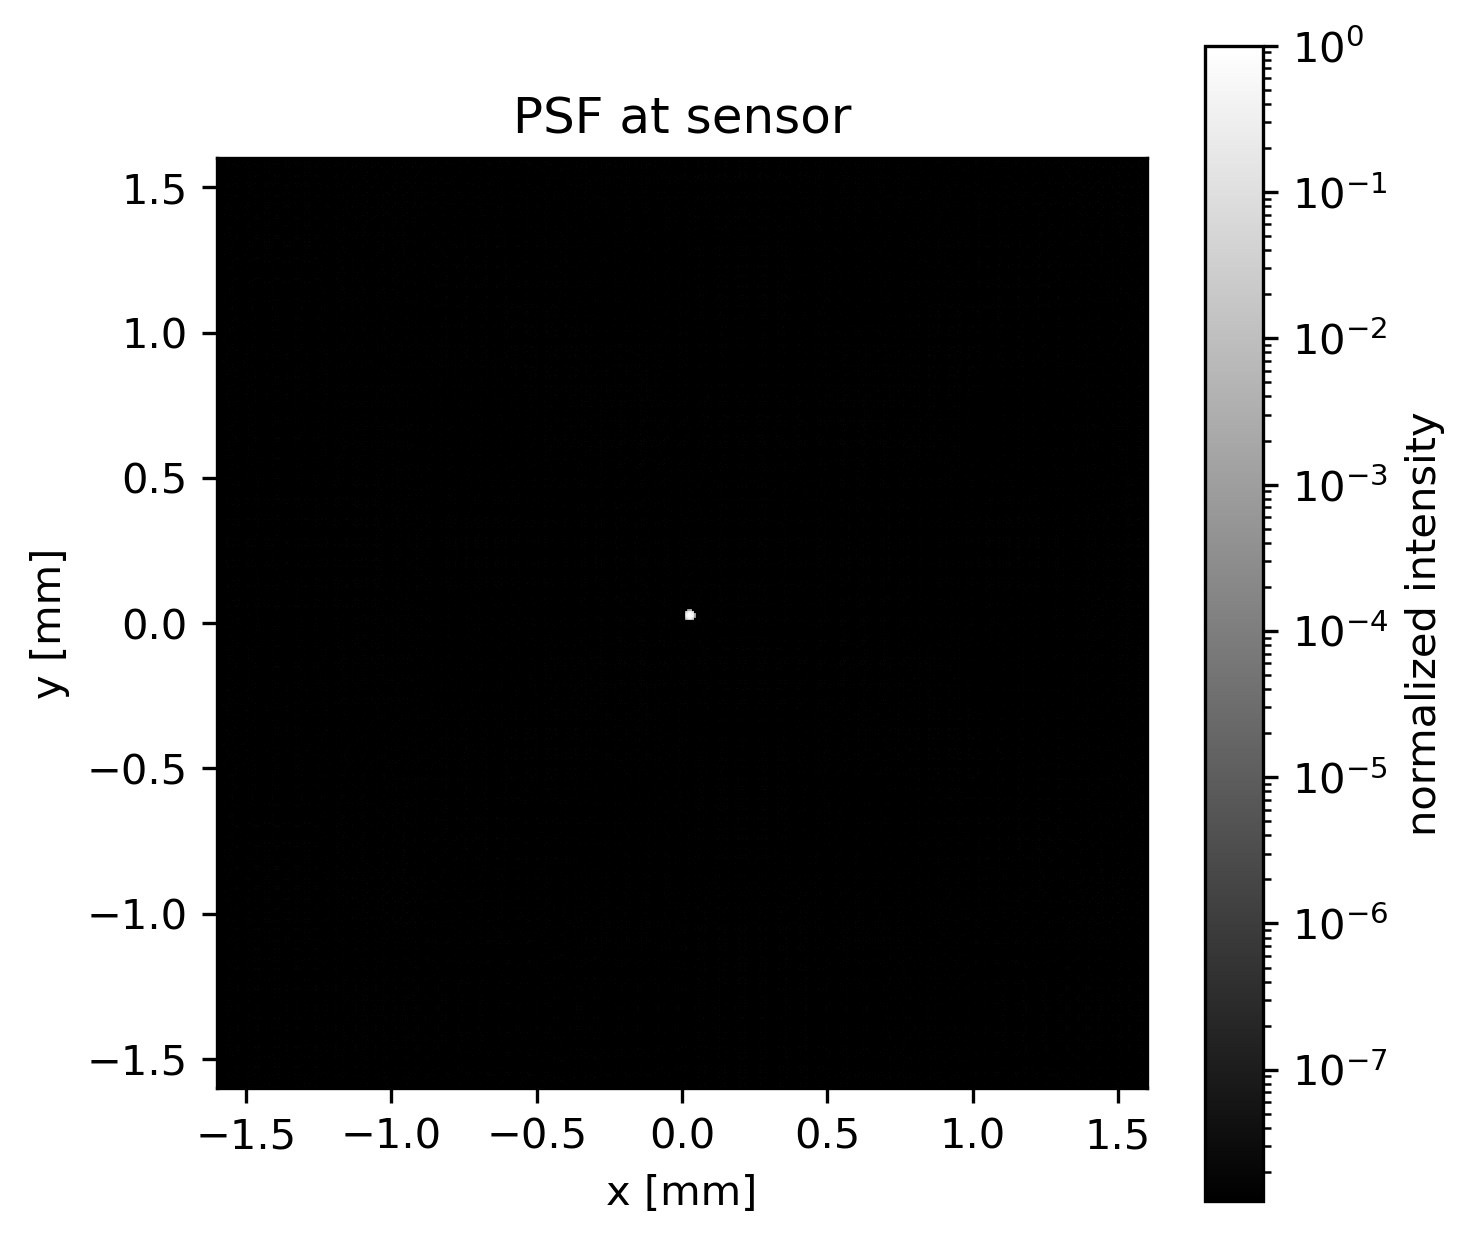
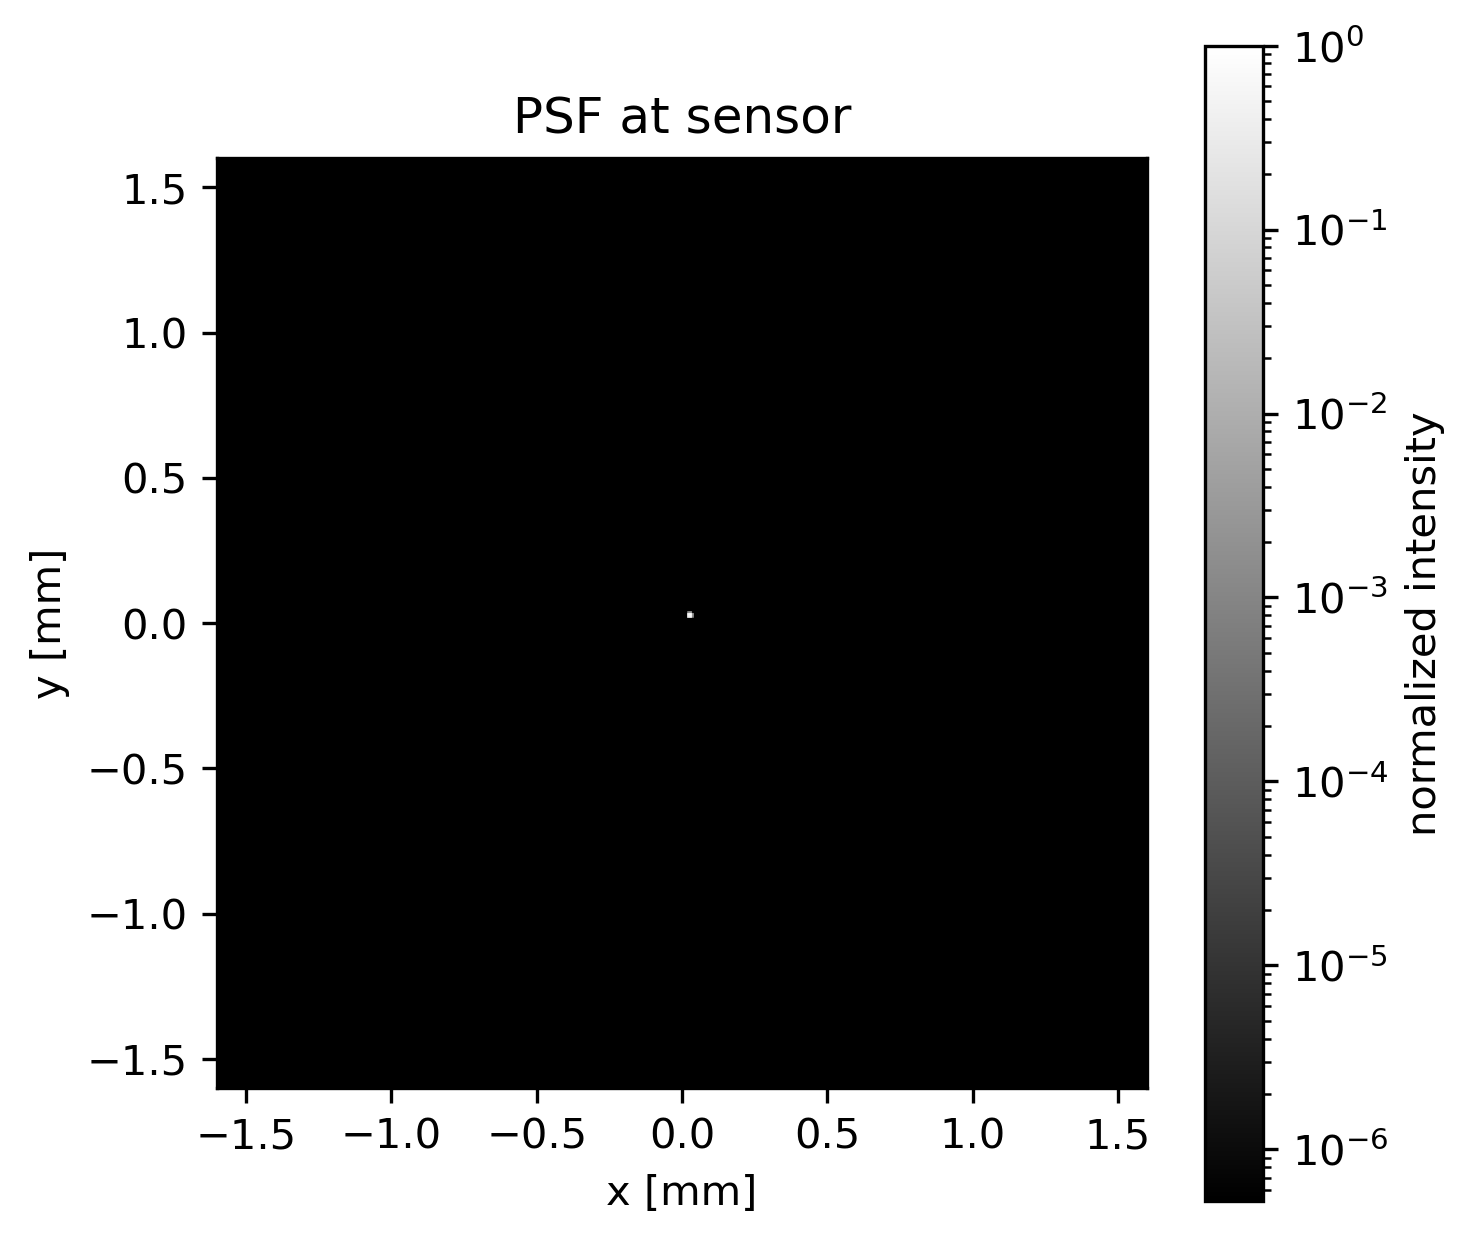
update best focus swap

diff --git a/test_ray_tracing.py b/test_ray_tracing.py
@@ -1,0 +1,135 @@
+import math
+import numpy as np
+import torch
+import pytest
+
+# Import classes from the project
+import os,sys
+sys.path.insert(0, os.path.abspath(os.path.join(os.path.dirname(__file__), '..')))
+import mlrt 
+from mlrt.optics import Lensgroup, Aspheric, Surface
+from mlrt.materials import Material
+from mlrt.basics import Ray
+
+torch.manual_seed(0)
+np.random.seed(0)
+
+DEVICE = torch.device("cpu")
+
+def _make_ray(o, d, wav=550.0):
+    """Helper: build a normalized Ray on DEVICE."""
+    if not torch.is_tensor(o): o = torch.tensor(o, dtype=torch.float32)
+    if not torch.is_tensor(d): d = torch.tensor(d, dtype=torch.float32)
+    o = o.reshape(-1, 3).to(DEVICE)
+    d = d.reshape(-1, 3).to(DEVICE)
+    d = d / torch.linalg.norm(d, dim=-1, keepdim=True)
+    wav = torch.full((o.shape[0],), float(wav), dtype=torch.float32, device=DEVICE)
+    return Ray(o, d, wav, device=DEVICE)
+
+# ---------- 1) Intersection: plane z = d ----------
+def test_intersect_plane_z_equals_d():
+    s = Aspheric(r=50.0, d=12.3, c=0.0, device=DEVICE)  # plane z = d
+    ray = _make_ray([0.0, 0.0, 0.0], [0.0, 0.0, 1.0])
+    valid, p = s.ray_surface_intersection(ray)
+    assert valid.item()
+    assert torch.allclose(p[0, 2], torch.tensor(12.3, device=DEVICE), atol=1e-6)
+
+# ---------- 2) Intersection: spherical surface (off-axis) ----------
+def test_intersect_sphere_off_axis_sag_matches():
+    R = 50.0  # mm
+    s = Aspheric(r=30.0, d=10.0, c=1.0/R, device=DEVICE)
+    x = 5.0  # off-axis hit
+    ray = _make_ray([x, 0.0, -100.0], [0.0, 0.0, 1.0])
+    valid, p = s.ray_surface_intersection(ray)
+    assert valid.item()
+    # expected z = d + sag(x)
+    r2 = torch.tensor(x**2, dtype=torch.float32, device=DEVICE)
+    sag = s._g(r2).item()
+    z_expect = 10.0 + sag
+    assert abs(p[0, 2].item() - z_expect) < 1e-4
+
+# ---------- 3) Snell's law (vector form): sin θ_t = η sin θ_i ----------
+def test_snell_vector_form():
+    lens = Lensgroup(device=DEVICE)
+    wi_theta = math.radians(30.0)
+    wi = torch.tensor([[math.sin(wi_theta), 0.0, math.cos(wi_theta)]], dtype=torch.float32, device=DEVICE)
+    n  = torch.tensor([[0.0, 0.0, 1.0]], dtype=torch.float32, device=DEVICE)
+    eta = 1.0 / 1.5  # air -> glass
+    valid, wt = lens._refract(wi, n, eta)
+    assert valid.item()
+    # Use |wi × n| and |wt × n| to get sin θ (robust to sign)
+    sin_i = torch.linalg.norm(torch.cross(wi, n), dim=-1).item()
+    sin_t = torch.linalg.norm(torch.cross(wt, n), dim=-1).item()
+    assert abs(sin_t - eta * sin_i) < 1e-5
+
+# ---------- 4) Total internal reflection flag ----------
+def test_total_internal_reflection_flag():
+    lens = Lensgroup(device=DEVICE)
+    eta = 1.5  # glass -> air (n1/n2)
+    # incidence > critical angle ≈ arcsin(1/eta)
+    th = math.radians(50.0)
+    wi = torch.tensor([[math.sin(th), 0.0, math.cos(th)]], dtype=torch.float32, device=DEVICE)
+    n  = torch.tensor([[0.0, 0.0, -1.0]], dtype=torch.float32, device=DEVICE)
+    valid, _ = lens._refract(wi, n, eta)
+    assert not valid.item()  # expect TIR
+
+# ---------- 5) Render energy conservation (air-air plate + sensor) ----------
+def test_render_energy_conservation_air_plate():
+    # Camera with only an aperture plane (AIR/AIR). Sensor at z = 20 mm.
+    lens = Lensgroup(device=DEVICE, pixel_size=0.05, film_size=[128, 128])
+    s = Aspheric(r=20.0, d=0.0, c=0.0, device=DEVICE)  # aperture plane (no refraction)
+    lens.surfaces = [s]
+    lens.materials = [Material('AIR'), Material('AIR')]
+    lens.d_sensor = 20.0
+    lens.aperture_ind = 0
+    lens._sync()
+
+    # Emit rays from a distant on-axis point
+    ray = lens.sample_ray_from_point(D_mm=500.0, wavelength=550.0, N=2000, filter_to_stop=True)
+
+    # Count effective rays used by render() (valid and landing inside sensor)
+    ray_final, valid = lens.trace(ray)
+    t = (lens.d_sensor - ray_final.o[..., 2]) / (ray_final.d[..., 2].clamp_min(1e-12))
+    p = ray_final(t)
+    R_sensor = [lens.film_size[i] * lens.pixel_size / 2 for i in range(2)]
+    inside = (
+        (-R_sensor[0] <= p[..., 0]) & (p[..., 0] <= R_sensor[0]) &
+        (-R_sensor[1] <= p[..., 1]) & (p[..., 1] <= R_sensor[1])
+    )
+    used = (valid & inside).sum().item()
+
+    I = lens.render(ray, irr=1.0)
+    # Bilinear splat: total weight per ray sums to 1 → sum(I) ≈ number of used rays
+    assert I.shape == (lens.film_size[0], lens.film_size[1])
+    assert abs(I.sum().item() - used) < 1e-4
+    assert used > 0
+
+def thin_lens_si(n=1.5168, R1=50.0, R2=-50.0, T=3.0):
+    """Approx focal length for a thick lens (standard formula)."""
+    return 1.0 / ((n-1)*(1.0/R1 - 1.0/R2 + (n-1)*T/(n*R1*R2)))
+
+def test_biconvex_focus_near_thin_lens():
+    # Build a simple biconvex lens and check near-axis focus vs thin-lens estimate
+    n = 1.5168
+    R1, R2, T = 50.0, -50.0, 3.0
+    f = thin_lens_si(n, R1, R2, T)
+    so = 1000.0  # object distance [mm]
+    si = 1.0 / (1.0/f - 1.0/so)  # Gaussian imaging
+
+    lens = Lensgroup(device=DEVICE, pixel_size=0.02, film_size=[256, 256])
+    # Surface 1 at d=0, surface 2 at d=T
+    s1 = Aspheric(r=25.0, d=0.0,  c=1.0/R1, device=DEVICE)
+    s2 = Aspheric(r=25.0, d=T,    c=1.0/R2, device=DEVICE)
+    lens.surfaces = [s1, s2]
+    lens.materials = [Material('AIR'), Material('bk7'), Material('AIR')]
+    lens.d_sensor = T + si
+    lens.aperture_ind = None
+    lens._sync()
+
+    ray = lens.sample_ray_from_point(D_mm=so, wavelength=550.0, N=2000, filter_to_stop=False)
+    p = lens.trace_to_sensor(ray, ignore_invalid=True).cpu().numpy()
+    if p.size == 0:
+        pytest.skip("No rays reached sensor in this config.")
+    centroid = p[:, :2].mean(axis=0)
+    # Near-axis check: centroid should be close to the optical axis (< 0.1 mm)
+    assert np.linalg.norm(centroid) < 0.1

diff --git a/main.py b/main.py
@@ -80,7 +80,7 @@ def run_first(args) -> None:
     if torch.max(I) > 0:
         I = I / torch.max(I) 
     lens.plot_psf(I, show=False, log=True, fname=out_dir / f"{args.prefix}_psf_log.png")
-    dis = lens.best_focus_D2( D_mm = args.D, lam=500.0, N=5000, D2_guess=None, span=5.0, steps=21, use_spot=True) - args.stop_after_s2_mm
+    dis = lens.best_focus_D2( D_mm = args.D, lam=500.0, N=5000, D2_guess=None, span=args.D2_span, steps=21, use_spot=True) - args.stop_after_s2_mm
     print(f'the optimal distance between the sensor and the aperture {dis} mm')
     m = lens.psf_metrics( I)
     with open(out_dir / f"{args.prefix}_metrics.csv", "w", newline="") as f:
@@ -123,7 +123,7 @@ def run_sweep_N(args) ->None:
 # Experiment 2: wavelength sweep
 # --------------------------
 def run_sweep_lambda(args) -> None:
-    lambdas = args.lambda_list or [450.0, 550.0, 650.0]
+    lambdas = args.lambda_list or [430, 460, 490, 520, 550, 580, 610, 640, 670]
     out_dir = Path(args.out_dir) / "sweep_lambda"; out_dir.mkdir(parents=True, exist_ok=True)
 
     device = torch.device("cuda" if (args.cuda and torch.cuda.is_available()) else "cpu")
@@ -155,7 +155,6 @@ def run_sweep_lambda(args) -> None:
 # Experiment 3: off-axis source
 # --------------------------
 def run_offaxis(args) -> None:
-    offsets = args.offaxis_list or [0.0, 1.0, 2.0]  # lateral shift in mm at the source plane
     out_dir = Path(args.out_dir) / "offaxis"; out_dir.mkdir(parents=True, exist_ok=True)
 
     device = torch.device("cuda" if (args.cuda and torch.cuda.is_available()) else "cpu")
@@ -165,9 +164,10 @@ def run_offaxis(args) -> None:
         pixel_size_mm=pixel_size_mm, film_M=args.M, device=device,
         stop_after_s2_mm=args.stop_after_s2_mm, add_explicit_stop=(not args.no_stop),
     )
+    xs = np.linspace(-args.field_max_mm, args.field_max_mm, args.field_steps)
 
     rows = []
-    for dx in offsets:
+    for dx in xs:
         ray = lens.sample_offaxis_point_axis( D_mm=args.D, wavelength=args.lambda_nm, N=args.N,
                                    x_off_mm=float(dx), y_off_mm=0.0, filter_to_stop=True)
         I = lens.render(ray, irr=1.0)
@@ -198,7 +198,7 @@ def run_sweep_D2(args) -> None:
     # find best focus as center
     D2_best = lens.best_focus_D2(D_mm=args.D, lam=args.lambda_nm, N=max(2000, args.N),
                                  D2_guess=args.D2, span=args.D2_span, steps=args.D2_steps,
-                                 use_spot=True)
+                                 use_spot=True)- args.stop_after_s2_mm
     z2 = float(lens.surfaces[1].d)
     grid = np.linspace(D2_best - args.D2_sweep_span, D2_best + args.D2_sweep_span, args.D2_sweep_steps)
 
@@ -302,7 +302,7 @@ def parse_args():
     p.add_argument("--R2", type=float, default=-24.5,help="Back radius R2 [mm] (convex to sensor often negative)")
     p.add_argument("--LD", type=float, default=25.4, help="Diameter of the lens [mm]")
     p.add_argument("--OD", type=float, default=3.175, help="Aperture diameter OD [mm]")
-    p.add_argument("--D2", type=float, default=20.3, help="Aperture to sensor distance [mm]")
+    p.add_argument("--D2", type=float, default=20.5, help="Aperture to sensor distance [mm]")
 
     # Stop
     p.add_argument("--stop_after_s2_mm", type=float, default=2.0, help="Stop position after S2 [mm]")
@@ -311,7 +311,7 @@ def parse_args():
     # Source / sampling / sensor
     p.add_argument("--D",         type=float, default=1000.0, help="Object distance [mm]")
     p.add_argument("--lambda_nm", type=float, default=500.0,  help="Wavelength [nm]")
-    p.add_argument("--N",         type=int,   default=1600,   help="Rays (angle-uniform)")
+    p.add_argument("--N",         type=int,   default=3200,   help="Rays (angle-uniform)")
     p.add_argument("--M",         type=list,   default=[512,512],    help="Sensor MxM pixels")
     p.add_argument("--h",         type=float, default=3.2,    help="Sensor side length h [mm] (pixel_size=h/M)")
 
@@ -325,7 +325,7 @@ def parse_args():
     p.add_argument("--lambda_list", nargs="+", type=float, help="Override lambda sweep list")
     p.add_argument("--offaxis_list", nargs="+", type=float, help="Override off-axis x offsets [mm]")
 
-    p.add_argument("--D2_span", type=float, default=5.0, help="Best-focus search span [mm]")
+    p.add_argument("--D2_span", type=float, default=21.0, help="Best-focus search span [mm]")
     p.add_argument("--D2_steps", type=int, default=21, help="Best-focus search steps")
     p.add_argument("--D2_sweep_span", type=float, default=1.0, help="Through-focus sweep ±span around best [mm]")
     p.add_argument("--D2_sweep_steps", type=int, default=13, help="Through-focus sweep steps")
@@ -333,6 +333,7 @@ def parse_args():
     p.add_argument("--OD_list", nargs="+", type=float, help="OD sweep list [mm]")
     p.add_argument("--refocus_per_OD", action="store_true", help="Refocus (best D2) for each OD")
 
+    # offset
     p.add_argument("--field_max_mm", type=float, default=1.0, help="Off-axis grid half-width [mm] at source plane")
     p.add_argument("--field_steps", type=int, default=3, help="Off-axis grid steps per axis")
 
@@ -346,9 +347,9 @@ if __name__ == "__main__":
     args = parse_args()
     torch.manual_seed(0); np.random.seed(0)
 
-    # run_first(args)
-    # run_sweep_N(args)
-    # run_sweep_lambda(args)
+    run_first(args)
+    run_sweep_N(args)
+    run_sweep_lambda(args)
     run_offaxis(args)
     run_sweep_D2(args)
     run_sweep_OD(args)

diff --git a/mlrt/optics.py b/mlrt/optics.py
@@ -390,51 +390,97 @@ class Lensgroup(PrettyPrinter):
             return valid, ray, oss
         return valid, ray
     
-    def best_focus_D2(self, D_mm, lam=500.0, N=5000,
-                  D2_guess=None, span=5.0, steps=21, use_spot=True):
+    def best_focus_D2(
+        self,
+        D_mm,
+        lam: float = 500.0,
+        N: int = 5000,
+        D2_guess: float | None = None,
+        span: float = 5.0,
+        steps: int = 21,
+        use_spot: bool = True,
+        # new: fine pass params
+        span_fine: float = 0.3,
+        steps_fine: int = 25,
+    ) -> float:
         """
-        Return D2 (distance from surface 2 to sensor) that minimizes blur.
-        - D2_guess: use thick-lens BFD as initial guess; if None, use infinity BFL.
-        - span: +/- range (mm) around the guess to search.
+        Two-stage search for best D2 (surface-2 → sensor distance) that minimizes blur.
+
+        Stage 1 (coarse): sweep D2 in [D2_guess ± span] with `steps` samples.
+        Stage 2 (fine):   sweep D2 in [D2_coarse_best ± span_fine] with `steps_fine` samples.
+
+        If use_spot=True: metric = mean spot radius from ray hit points (no pixel grid).
+        If use_spot=False: render to pixels, metric = EE50 radius (mm).
         """
-        # if you have R1,R2,T,n, you can compute BFD as in the formulas above
-        # here assume caller passes a D2_guess; otherwise use current lens.d_sensor - z2
+        import numpy as np
+
+        # surface-2 z
         z2 = float(self.surfaces[1].d)
+
+        # default guess: current sensor offset
         if D2_guess is None:
             D2_guess = self.d_sensor - z2
 
-        grid = np.linspace(D2_guess - span, D2_guess + span, steps)
-        best = (float("inf"), grid[0])
+        # keep original sensor z and restore later
+        _orig_d_sensor = float(self.d_sensor)
 
-        for D2 in grid:
-            self.d_sensor = z2 + D2
+        def _metric_for(D2_val: float) -> float | None:
+            """Compute blur metric at a given D2. Return None if no rays hit sensor."""
+            self.d_sensor = z2 + float(D2_val)
             rays = self.sample_ray_from_point(D_mm=D_mm, wavelength=lam, N=N, filter_to_stop=True)
+
             if use_spot:
                 p = self.trace_to_sensor(rays, ignore_invalid=True).cpu().numpy()
-                if p.size == 0: continue
+                if p.size == 0:
+                    return None
                 xy = p[:, :2]
                 c = xy.mean(axis=0, keepdims=True)
                 r = np.linalg.norm(xy - c, axis=1)
-                metric = r.mean()  # or np.sqrt((r**2).mean())  (RMS)
+                return float(r.mean())  # or RMS: float(np.sqrt((r**2).mean()))
             else:
                 I = self.render(rays)
-                # quick EE50 radius in pixels then convert to mm by pixel_size
                 img = I.detach().cpu().float().numpy()
-                if img.max() <= 0: continue
-                # center = argmax
+                if img.max() <= 0:
+                    return None
+                # EE50 radius (center = brightest pixel)
                 peak = np.unravel_index(np.argmax(img), img.shape)
                 yy, xx = np.indices(img.shape)
                 dx = (xx - peak[0]) * self.pixel_size
                 dy = (yy - peak[1]) * self.pixel_size
-                r = np.sqrt(dx*dx + dy*dy).ravel()
-                w = img.ravel() / img.sum()
+                r = np.sqrt(dx * dx + dy * dy).ravel()
+                w = (img.ravel() / (img.sum() + 1e-12))
                 order = np.argsort(r)
                 cdf = np.cumsum(w[order])
-                metric = r[order][np.searchsorted(cdf, 0.5)]  # EE50 radius
-            if metric < best[0]:
-                best = (metric, D2)
+                idx = np.searchsorted(cdf, 0.5)
+                return float(r[order][min(idx, len(order) - 1)])
 
-        return best[1] 
+        # ---- Stage 1: coarse sweep ----
+        coarse_grid = np.linspace(D2_guess - span, D2_guess + span, steps)
+        best_val = float("inf")
+        best_D2 = float(coarse_grid[0])
+
+        for D2 in coarse_grid:
+            m = _metric_for(D2)
+            if m is None:
+                continue
+            if m < best_val:
+                best_val = m
+                best_D2 = float(D2)
+
+        # ---- Stage 2: fine sweep around coarse best ----
+        fine_grid = np.linspace(best_D2 - span_fine, best_D2 + span_fine, steps_fine)
+        best_val_f = float("inf")
+        best_D2_f = float(fine_grid[0])
+
+        for D2 in fine_grid:
+            m = _metric_for(D2)
+            if m is None:
+                continue
+            if m < best_val_f:
+                best_val_f = m
+                best_D2_f = float(D2)
+
+        return best_D2_f
     
     # psf metrics 
     def psf_metrics(self, I:torch.Tensor) -> dict:
